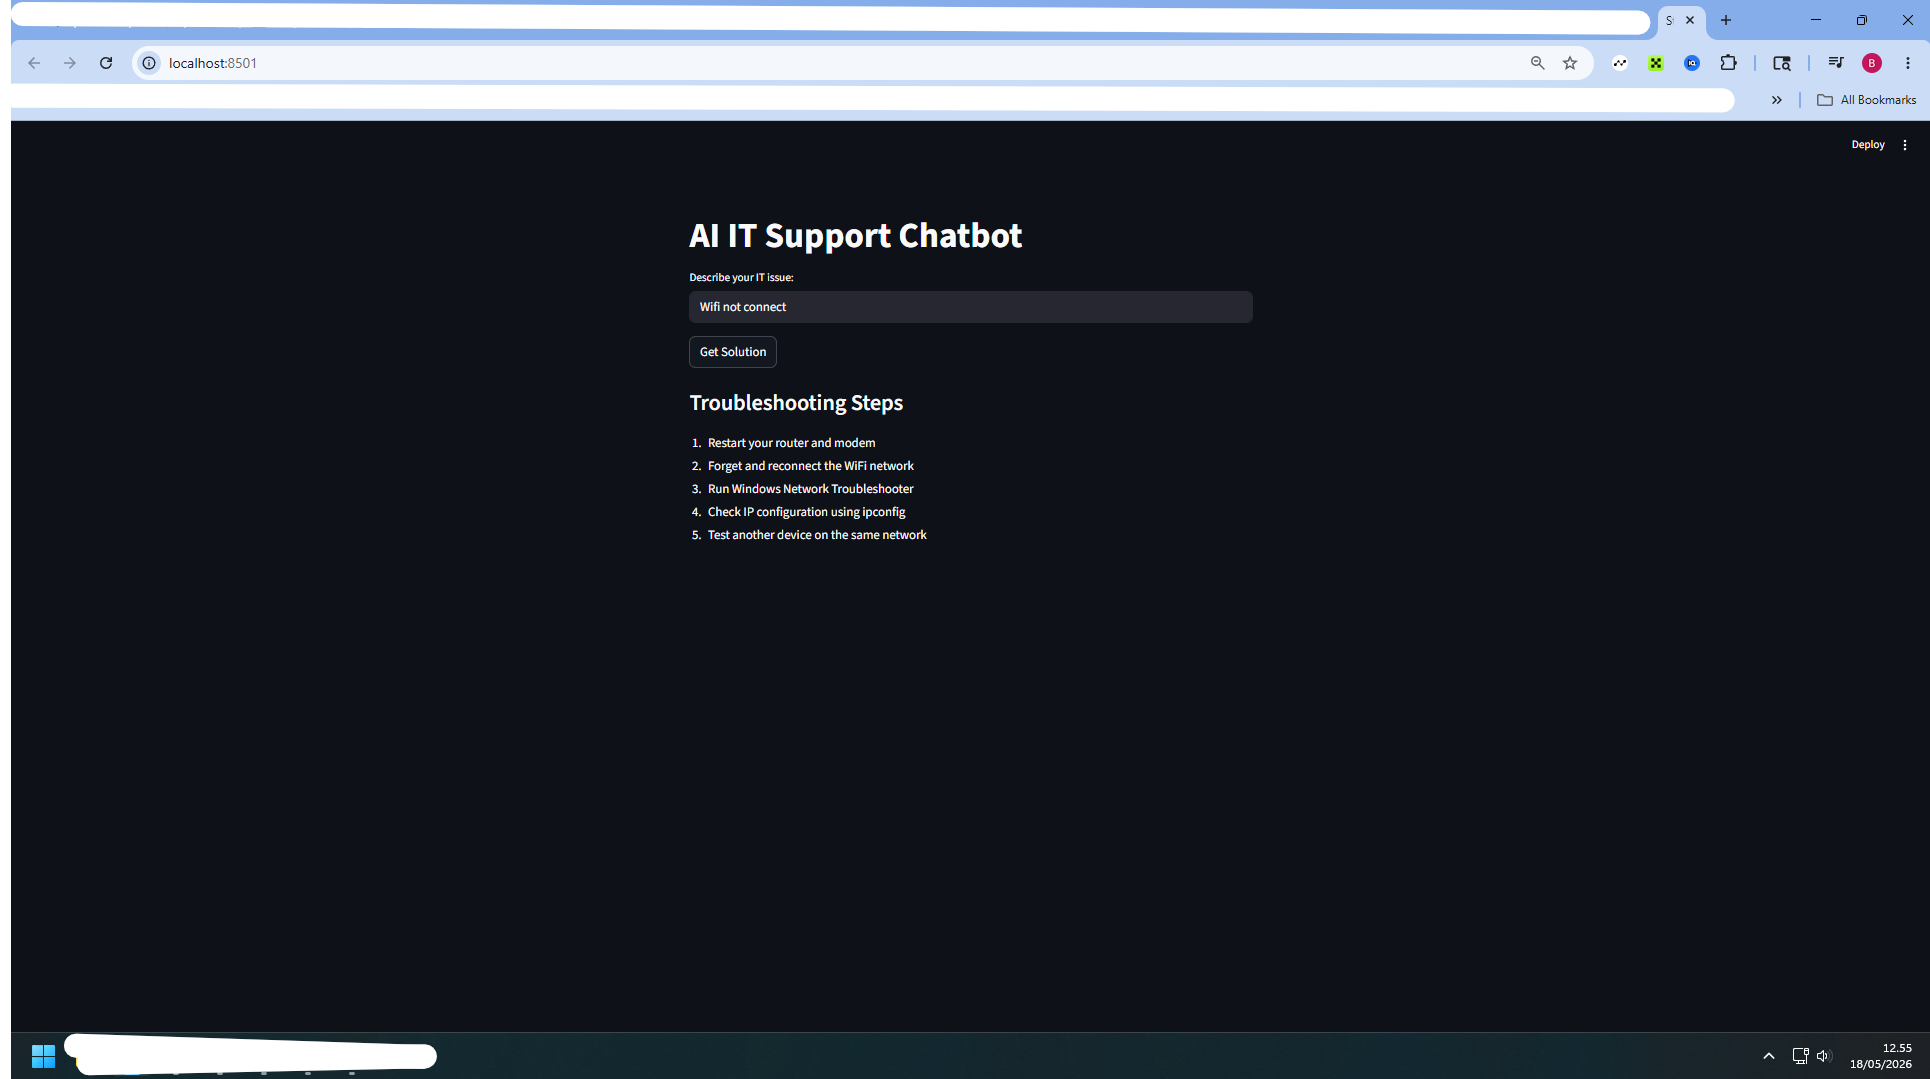
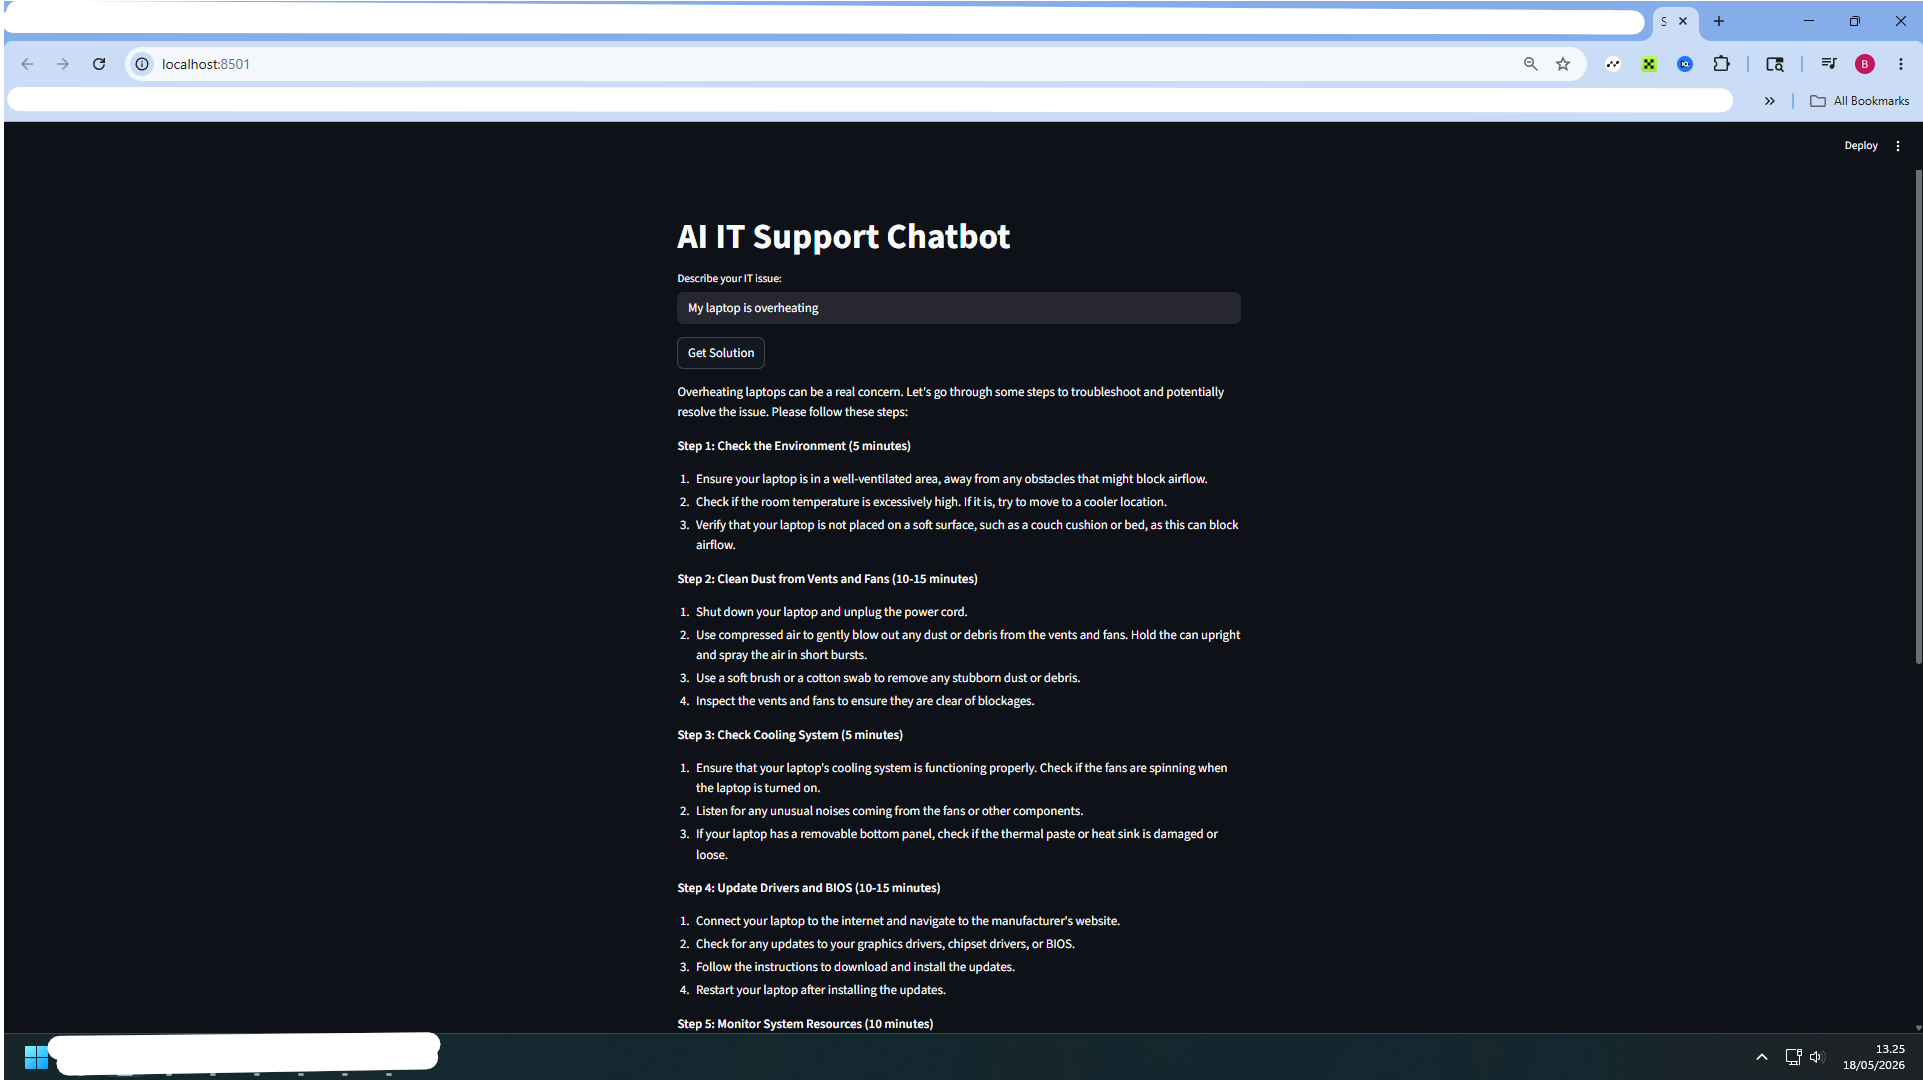
upgrade chatbot with groq ai integration

diff --git a/app.py b/app.py
@@ -1,4 +1,13 @@
 import streamlit as st
+from groq import Groq
+from dotenv import load_dotenv
+import os
+
+load_dotenv()
+
+client = Groq(
+    api_key=os.getenv("GROQ_API_KEY")
+)
 
 st.title("AI IT Support Chatbot")
 
@@ -8,52 +17,26 @@ user_input = st.text_input(
 
 if st.button("Get Solution"):
 
-    issue = user_input.lower()
+    prompt = f"""
+    You are a professional IT Support technician.
 
-    if "wifi" in issue:
-        answer = """
-1. Restart your router and modem
-2. Forget and reconnect the WiFi network
-3. Run Windows Network Troubleshooter
-4. Check IP configuration using ipconfig
-5. Test another device on the same network
-"""
+    Help troubleshoot this issue:
 
-    elif "printer" in issue:
-        answer = """
-1. Check printer power and cable connection
-2. Restart the printer
-3. Reinstall printer drivers
-4. Verify printer is set as default
-5. Restart Print Spooler service
-"""
+    {user_input}
 
-    elif "slow" in issue:
-        answer = """
-1. Restart the computer
-2. Disable unnecessary startup applications
-3. Check CPU and RAM usage
-4. Scan for malware
-5. Free up disk space
-"""
+    Give clear step-by-step troubleshooting guidance.
+    """
 
-    elif "overheating" in issue:
-        answer = """
-1. Clean laptop fan and air vents
-2. Avoid blocking ventilation
-3. Close unnecessary applications
-4. Check CPU usage
-5. Replace thermal paste if necessary
-"""
+    response = client.chat.completions.create(
+        messages=[
+            {
+                "role": "user",
+                "content": prompt
+            }
+        ],
+        model="llama-3.3-70b-versatile"
+    )
 
-    else:
-        answer = """
-1. Restart the device
-2. Check system connections
-3. Verify software updates
-4. Review system logs
-5. Contact IT support if issue continues
-"""
+    answer = response.choices[0].message.content
 
-    st.subheader("Troubleshooting Steps")
     st.write(answer)
